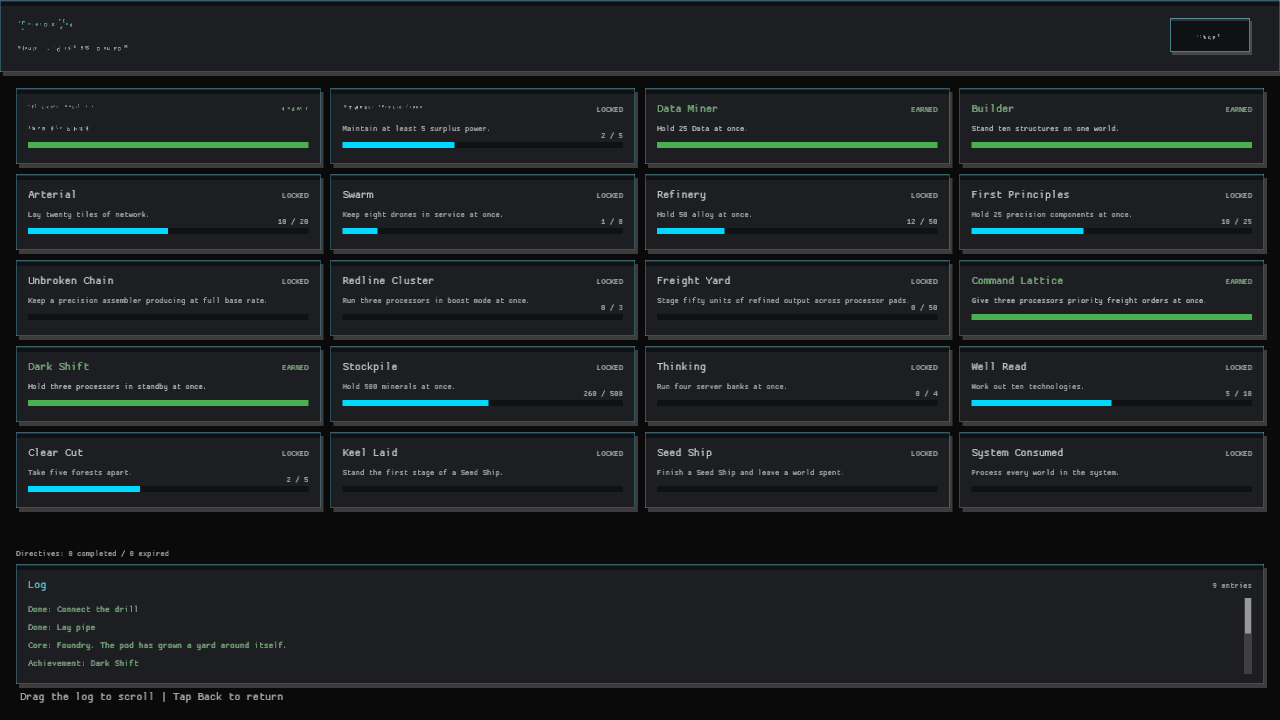
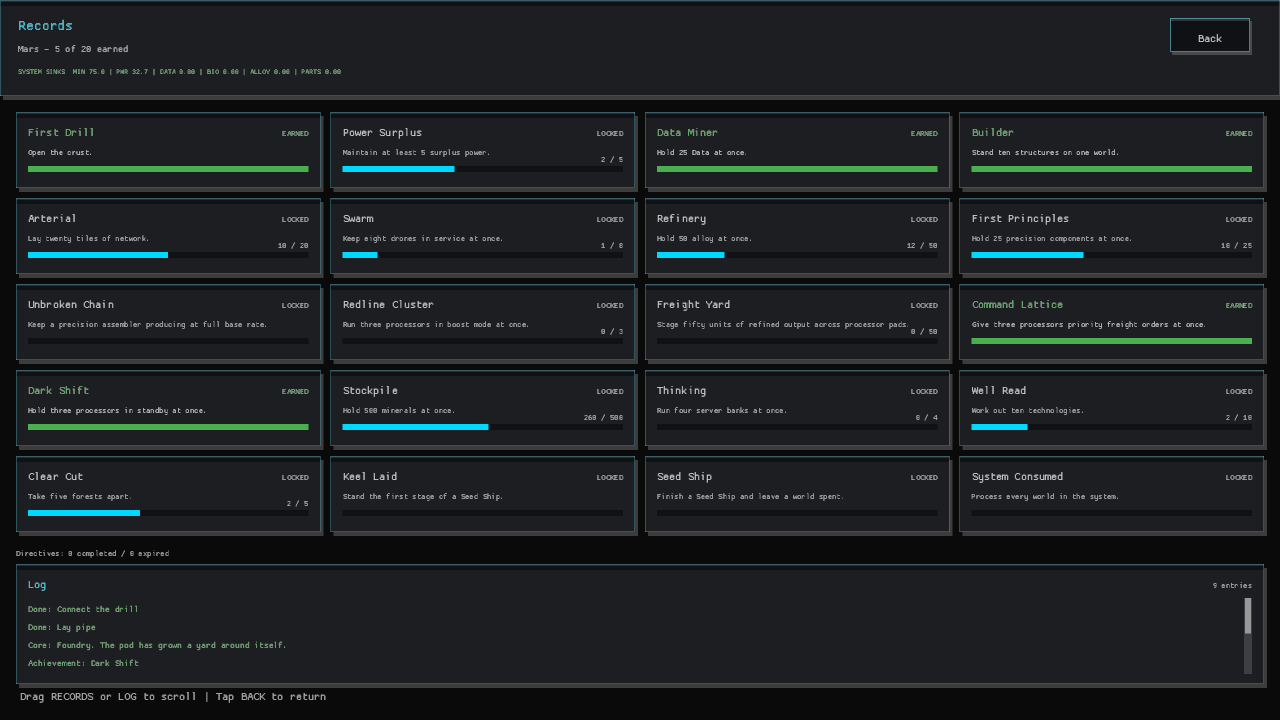
The swarm records the cost of the living system before the last world is gone (live consumption telemetry, Records)
Lifetime sinks were only visible on the completion screen, leaving the player without a running account while deciding what to build or feed. Expose Campaign::total_consumption and add the six-resource system-sink summary to Records, wrapping it into two compact lines on phones.

The completion report now uses the same campaign-owned aggregation, so Records and the ending cannot disagree about totals. The README names the live telemetry, and refreshed desktop and narrow-phone captures verify that the header leaves the achievement cards, durable log, and touch Back control unobstructed.

Verified with 617 Rust tests, strict Clippy, source-size and diff checks, and the full publish.ps1 Windows/WebGL Preview deployment.

diff --git a/src/screens/records_view.rs b/src/screens/records_view.rs
@@ -5,13 +5,13 @@
 //! toast that faded. This is the list: what has been earned, what has not, and
 //! how close the ones that are counted actually are.
 
-use crate::state::{AchievementRecord, DirectiveRecord};
+use crate::state::{AchievementRecord, ConsumptionTotals, DirectiveRecord};
 use crate::ui::{draw_button_sized, draw_panel, Colors, Dimensions};
 use macroquad::prelude::*;
 use macroquad_toolkit::notifications::{LoggedNotification, NotificationType};
 use macroquad_toolkit::ui::{draw_ui_text, measure_ui_text, truncate_text_to_width, ScrollArea};
 
-const HEADER_HEIGHT: f32 = 72.0;
+const HEADER_HEIGHT: f32 = 96.0;
 const CARD_H: f32 = 76.0;
 const CARD_GAP: f32 = 10.0;
 /// Never fewer than this many across, and never so many that a card is a strip.
@@ -39,6 +39,7 @@ pub fn render_records_view(
     records: &[AchievementRecord],
     log: &[LoggedNotification],
     directives: &[DirectiveRecord],
+    consumption: ConsumptionTotals,
     scroll: &mut ScrollArea,
     records_scroll: &mut ScrollArea,
 ) -> RecordsAction {
@@ -57,6 +58,7 @@ pub fn render_records_view(
         12.0,
         Colors::TEXT_DIM,
     );
+    draw_consumption_summary(consumption, screen_w);
 
     let mut action = RecordsAction::None;
     if draw_button_sized(screen_w - 110.0, 18.0, 80.0, 34.0, "Back") {
@@ -123,6 +125,63 @@ pub fn render_records_view(
     }
 
     action
+}
+
+fn draw_consumption_summary(consumption: ConsumptionTotals, screen_w: f32) {
+    if screen_w < 600.0 {
+        draw_ui_text(
+            &format!(
+                "SYSTEM SINKS  M {} | P {} | D {}",
+                format_consumption(consumption.minerals),
+                format_consumption(consumption.energy),
+                format_consumption(consumption.data),
+            ),
+            18.0,
+            70.0,
+            8.0,
+            Colors::SUCCESS,
+        );
+        draw_ui_text(
+            &format!(
+                "B {} | A {} | C {}",
+                format_consumption(consumption.biomass),
+                format_consumption(consumption.alloy),
+                format_consumption(consumption.components),
+            ),
+            18.0,
+            84.0,
+            8.0,
+            Colors::SUCCESS,
+        );
+    } else {
+        draw_ui_text(
+            &format!(
+                "SYSTEM SINKS  MIN {} | PWR {} | DATA {} | BIO {} | ALLOY {} | PARTS {}",
+                format_consumption(consumption.minerals),
+                format_consumption(consumption.energy),
+                format_consumption(consumption.data),
+                format_consumption(consumption.biomass),
+                format_consumption(consumption.alloy),
+                format_consumption(consumption.components),
+            ),
+            18.0,
+            74.0,
+            9.0,
+            Colors::SUCCESS,
+        );
+    }
+}
+
+fn format_consumption(amount: f32) -> String {
+    if amount >= 1_000.0 {
+        format!("{:.1}k", amount / 1_000.0)
+    } else if amount >= 100.0 {
+        format!("{amount:.0}")
+    } else if amount >= 10.0 {
+        format!("{amount:.1}")
+    } else {
+        format!("{amount:.2}")
+    }
 }
 
 fn draw_records_footer(screen_w: f32, screen_h: f32) {

diff --git a/src/state/campaign.rs b/src/state/campaign.rs
@@ -12,6 +12,7 @@ use crate::data::{GameConfig, GameDataContext};
 use crate::directives::{pick_directive, Directive};
 use crate::engine::{ResearchTree, ResourceType, StatId};
 
+use super::consumption::ConsumptionTotals;
 use super::core_stage::CoreRequirementProgress;
 use super::game_state::{PlanetState, ResearchProgress};
 use super::UpkeepAlertCause;
@@ -643,6 +644,18 @@ impl Campaign {
             .filter_map(Option::as_ref)
             .map(|planet| planet.grid.total_buildings())
             .sum()
+    }
+
+    /// Lifetime resource sinks across every world the swarm has reached.
+    pub fn total_consumption(&self) -> ConsumptionTotals {
+        self.planets
+            .iter()
+            .filter_map(Option::as_ref)
+            .map(|planet| planet.resources.consumed)
+            .fold(ConsumptionTotals::default(), |mut total, consumed| {
+                total.add(consumed);
+                total
+            })
     }
 
     /// Move the swarm's attention to another colonized world. The world it

diff --git a/src/screens/records_view/tests.rs b/src/screens/records_view/tests.rs
@@ -7,15 +7,15 @@ fn compact_records_reserve_space_for_the_durable_log() {
     let grid = Rect::new(16.0, area_y, 768.0, grid_h);
     let log_y = grid.bottom() + GRID_TO_LOG_GAP;
 
-    assert_eq!(grid_h, 334.0);
+    assert_eq!(grid_h, 310.0);
     assert!(log_y + LOG_MIN_H <= 600.0 - FOOTER_RESERVE);
 }
 
 #[test]
 fn records_do_not_draw_a_card_under_the_summary_line() {
-    let view = Rect::new(16.0, 88.0, 768.0, 334.0);
+    let view = Rect::new(16.0, 112.0, 768.0, 310.0);
 
-    assert!(record_card_fits_view(88.0, CARD_H, view));
+    assert!(record_card_fits_view(112.0, CARD_H, view));
     assert!(record_card_fits_view(346.0, CARD_H, view));
     assert!(!record_card_fits_view(347.0, CARD_H, view));
 }

diff --git a/src/main/update.rs b/src/main/update.rs
@@ -222,6 +222,7 @@ impl Game {
         self.campaign.sync_notification_history();
         let log = self.campaign.toast_history.clone();
         let directive_history = self.campaign.directive_history.clone();
+        let consumption = self.campaign.total_consumption();
         let planet = self.campaign.current_mut();
         let records = planet.achievement_records();
         let name = planet.name.clone();
@@ -230,6 +231,7 @@ impl Game {
             &records,
             &log,
             &directive_history,
+            consumption,
             &mut planet.log_scroll,
             &mut planet.records_scroll,
         );

diff --git a/src/screens/campaign_complete_view/report.rs b/src/screens/campaign_complete_view/report.rs
@@ -35,13 +35,7 @@ pub(super) fn compact_core_stage_line(rows: &[CompletionWorldRow]) -> String {
 }
 
 pub(super) fn completion_consumption(campaign: &Campaign) -> ConsumptionTotals {
-    (0..PLANET_COUNT)
-        .filter_map(|index| campaign.planet(index))
-        .map(|planet| planet.resources.consumed)
-        .fold(ConsumptionTotals::default(), |mut total, consumed| {
-            total.add(consumed);
-            total
-        })
+    campaign.total_consumption()
 }
 
 pub(super) fn consumption_entries(campaign: &Campaign) -> [(&'static str, f32); 6] {

diff --git a/README.md b/README.md
@@ -43,6 +43,8 @@ The swarm is powerful, but every expansion changes the terrain, stresses the gri
   into the planetary backdrop so late evolution is visible beyond its tile.
 - The completion report adds a world-by-world Core ledger, keeping each final
   stage and standing structure count visible after the last launch.
+- Records also shows the campaign-wide lifetime resource sinks while the run
+  is still in progress, including power draw, research Data, and factory input.
 
 ## Goal
 
